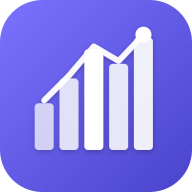
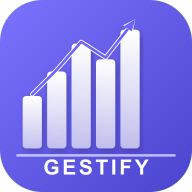
feat: icono PWA con fondo morado y texto GESTIFY

Changed region(s): [[0.0625, 0.0938, 0.9375, 0.9375], [0.9375, 0.9062, 0.9688, 0.9375], [0.9062, 0.9375, 0.9375, 0.9688]]

diff --git a/generate-icons.js b/generate-icons.js
@@ -1,0 +1,54 @@
+const sharp = require('sharp');
+
+const svgIcon = (size) => {
+  const s = size;
+  return Buffer.from(`<svg width="${s}" height="${s}" viewBox="0 0 220 220" xmlns="http://www.w3.org/2000/svg">
+  <defs>
+    <linearGradient id="bg" x1="0" y1="0" x2="1" y2="1">
+      <stop offset="0%" stop-color="#7B73FF"/>
+      <stop offset="100%" stop-color="#4A43CC"/>
+    </linearGradient>
+    <linearGradient id="bar1b" x1="0" y1="0" x2="0" y2="1">
+      <stop offset="0%" stop-color="white"/>
+      <stop offset="100%" stop-color="rgba(255,255,255,0.6)"/>
+    </linearGradient>
+    <filter id="sh" x="-20%" y="-20%" width="140%" height="140%">
+      <feDropShadow dx="2" dy="4" stdDeviation="4" flood-color="rgba(0,0,0,0.3)"/>
+    </filter>
+  </defs>
+
+  <!-- Fondo morado -->
+  <rect width="220" height="220" rx="48" fill="url(#bg)"/>
+
+  <!-- Barras -->
+  <rect x="26" y="110" width="22" height="60" rx="4" fill="url(#bar1b)" filter="url(#sh)"/>
+  <rect x="54" y="82"  width="22" height="88" rx="4" fill="url(#bar1b)" filter="url(#sh)"/>
+  <rect x="82" y="50"  width="22" height="120" rx="4" fill="url(#bar1b)" filter="url(#sh)"/>
+  <rect x="110" y="68" width="22" height="102" rx="4" fill="url(#bar1b)" filter="url(#sh)"/>
+  <rect x="138" y="34" width="22" height="136" rx="4" fill="url(#bar1b)" filter="url(#sh)"/>
+
+  <!-- Línea de tendencia -->
+  <polyline points="37,108 65,80 93,48 121,66 149,30" stroke="white" stroke-width="5" fill="none" stroke-linecap="round" stroke-linejoin="round"/>
+  <polyline points="37,108 65,80 93,48 121,66 149,30" stroke="#6C63FF" stroke-width="3" fill="none" stroke-linecap="round" stroke-linejoin="round"/>
+
+  <!-- Punta de flecha -->
+  <polygon points="155,22 141,29 152,37" fill="white"/>
+  <polygon points="155,22 142,30 151,36" fill="#6C63FF"/>
+
+  <!-- Línea base -->
+  <line x1="20" y1="178" x2="200" y2="178" stroke="white" stroke-width="3" stroke-linecap="round" opacity="0.6"/>
+
+  <!-- Texto GESTIFY -->
+  <text x="110" y="200" text-anchor="middle" font-family="Arial, sans-serif" font-size="24" font-weight="800" fill="white" letter-spacing="3">GESTIFY</text>
+</svg>`);
+};
+
+async function generate() {
+  await sharp(svgIcon(192)).png().toFile('icons/icon-192.png');
+  console.log('icon-192.png generado');
+
+  await sharp(svgIcon(512)).png().toFile('icons/icon-512.png');
+  console.log('icon-512.png generado');
+}
+
+generate().catch(console.error);
